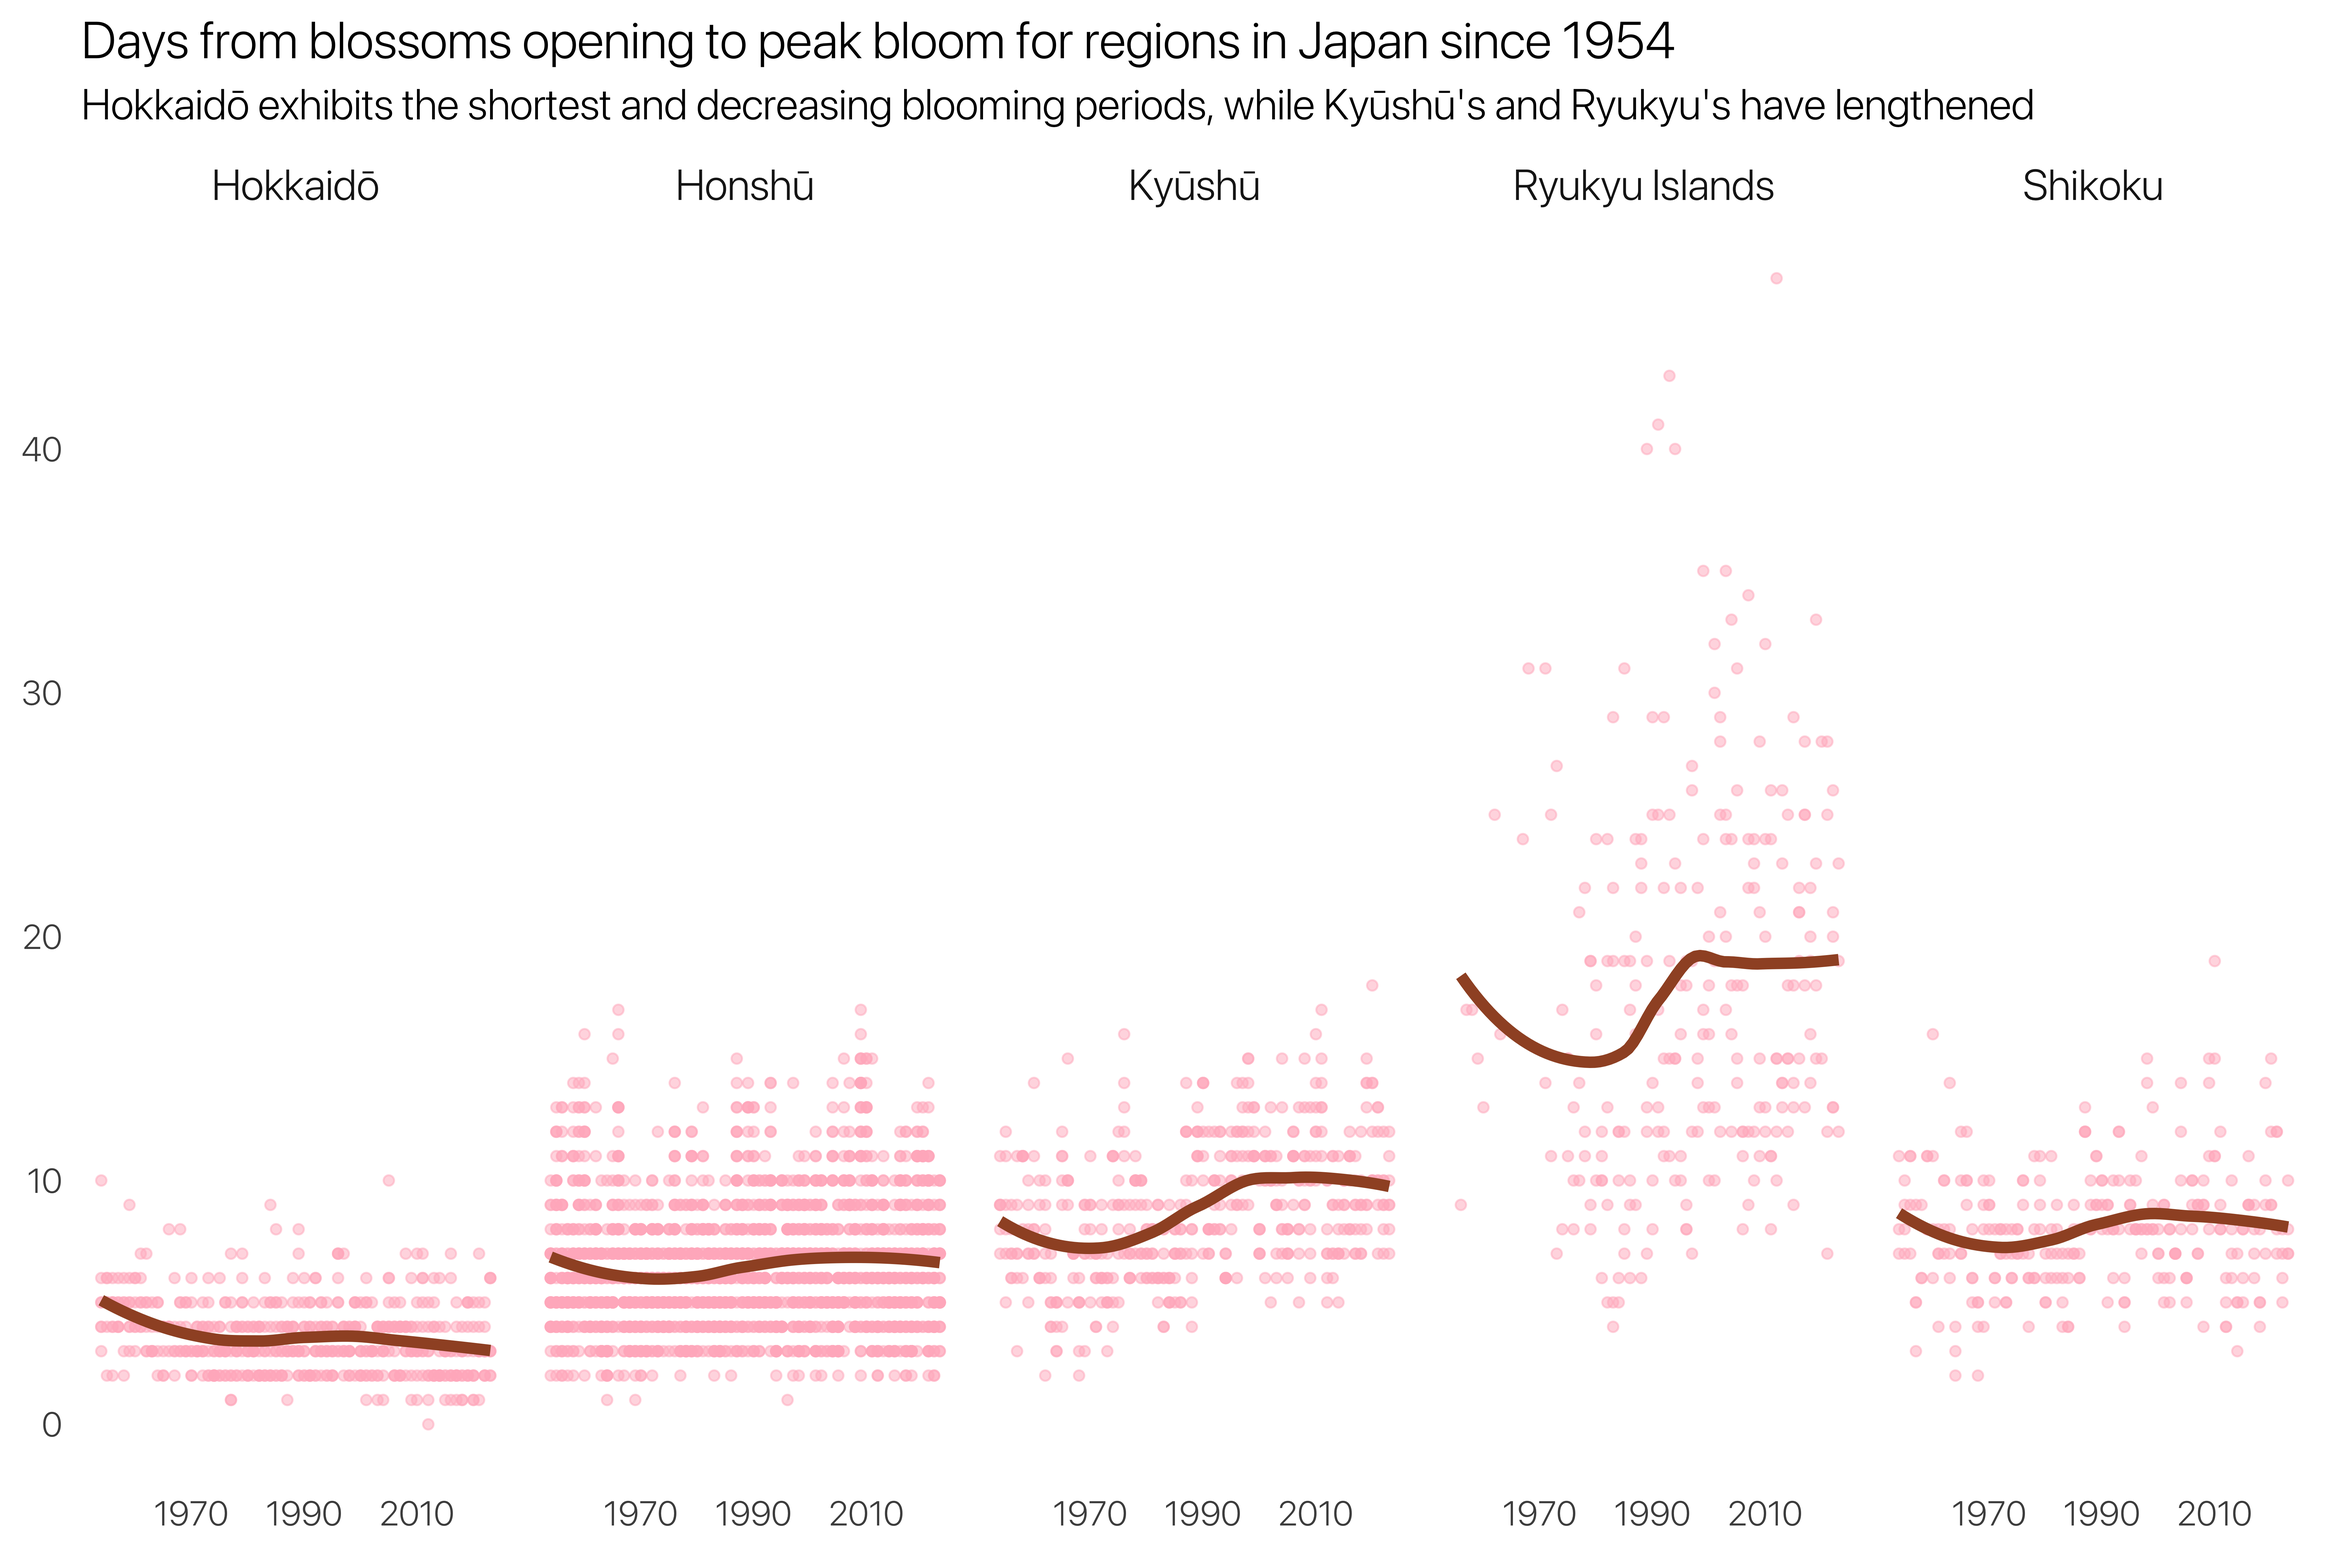
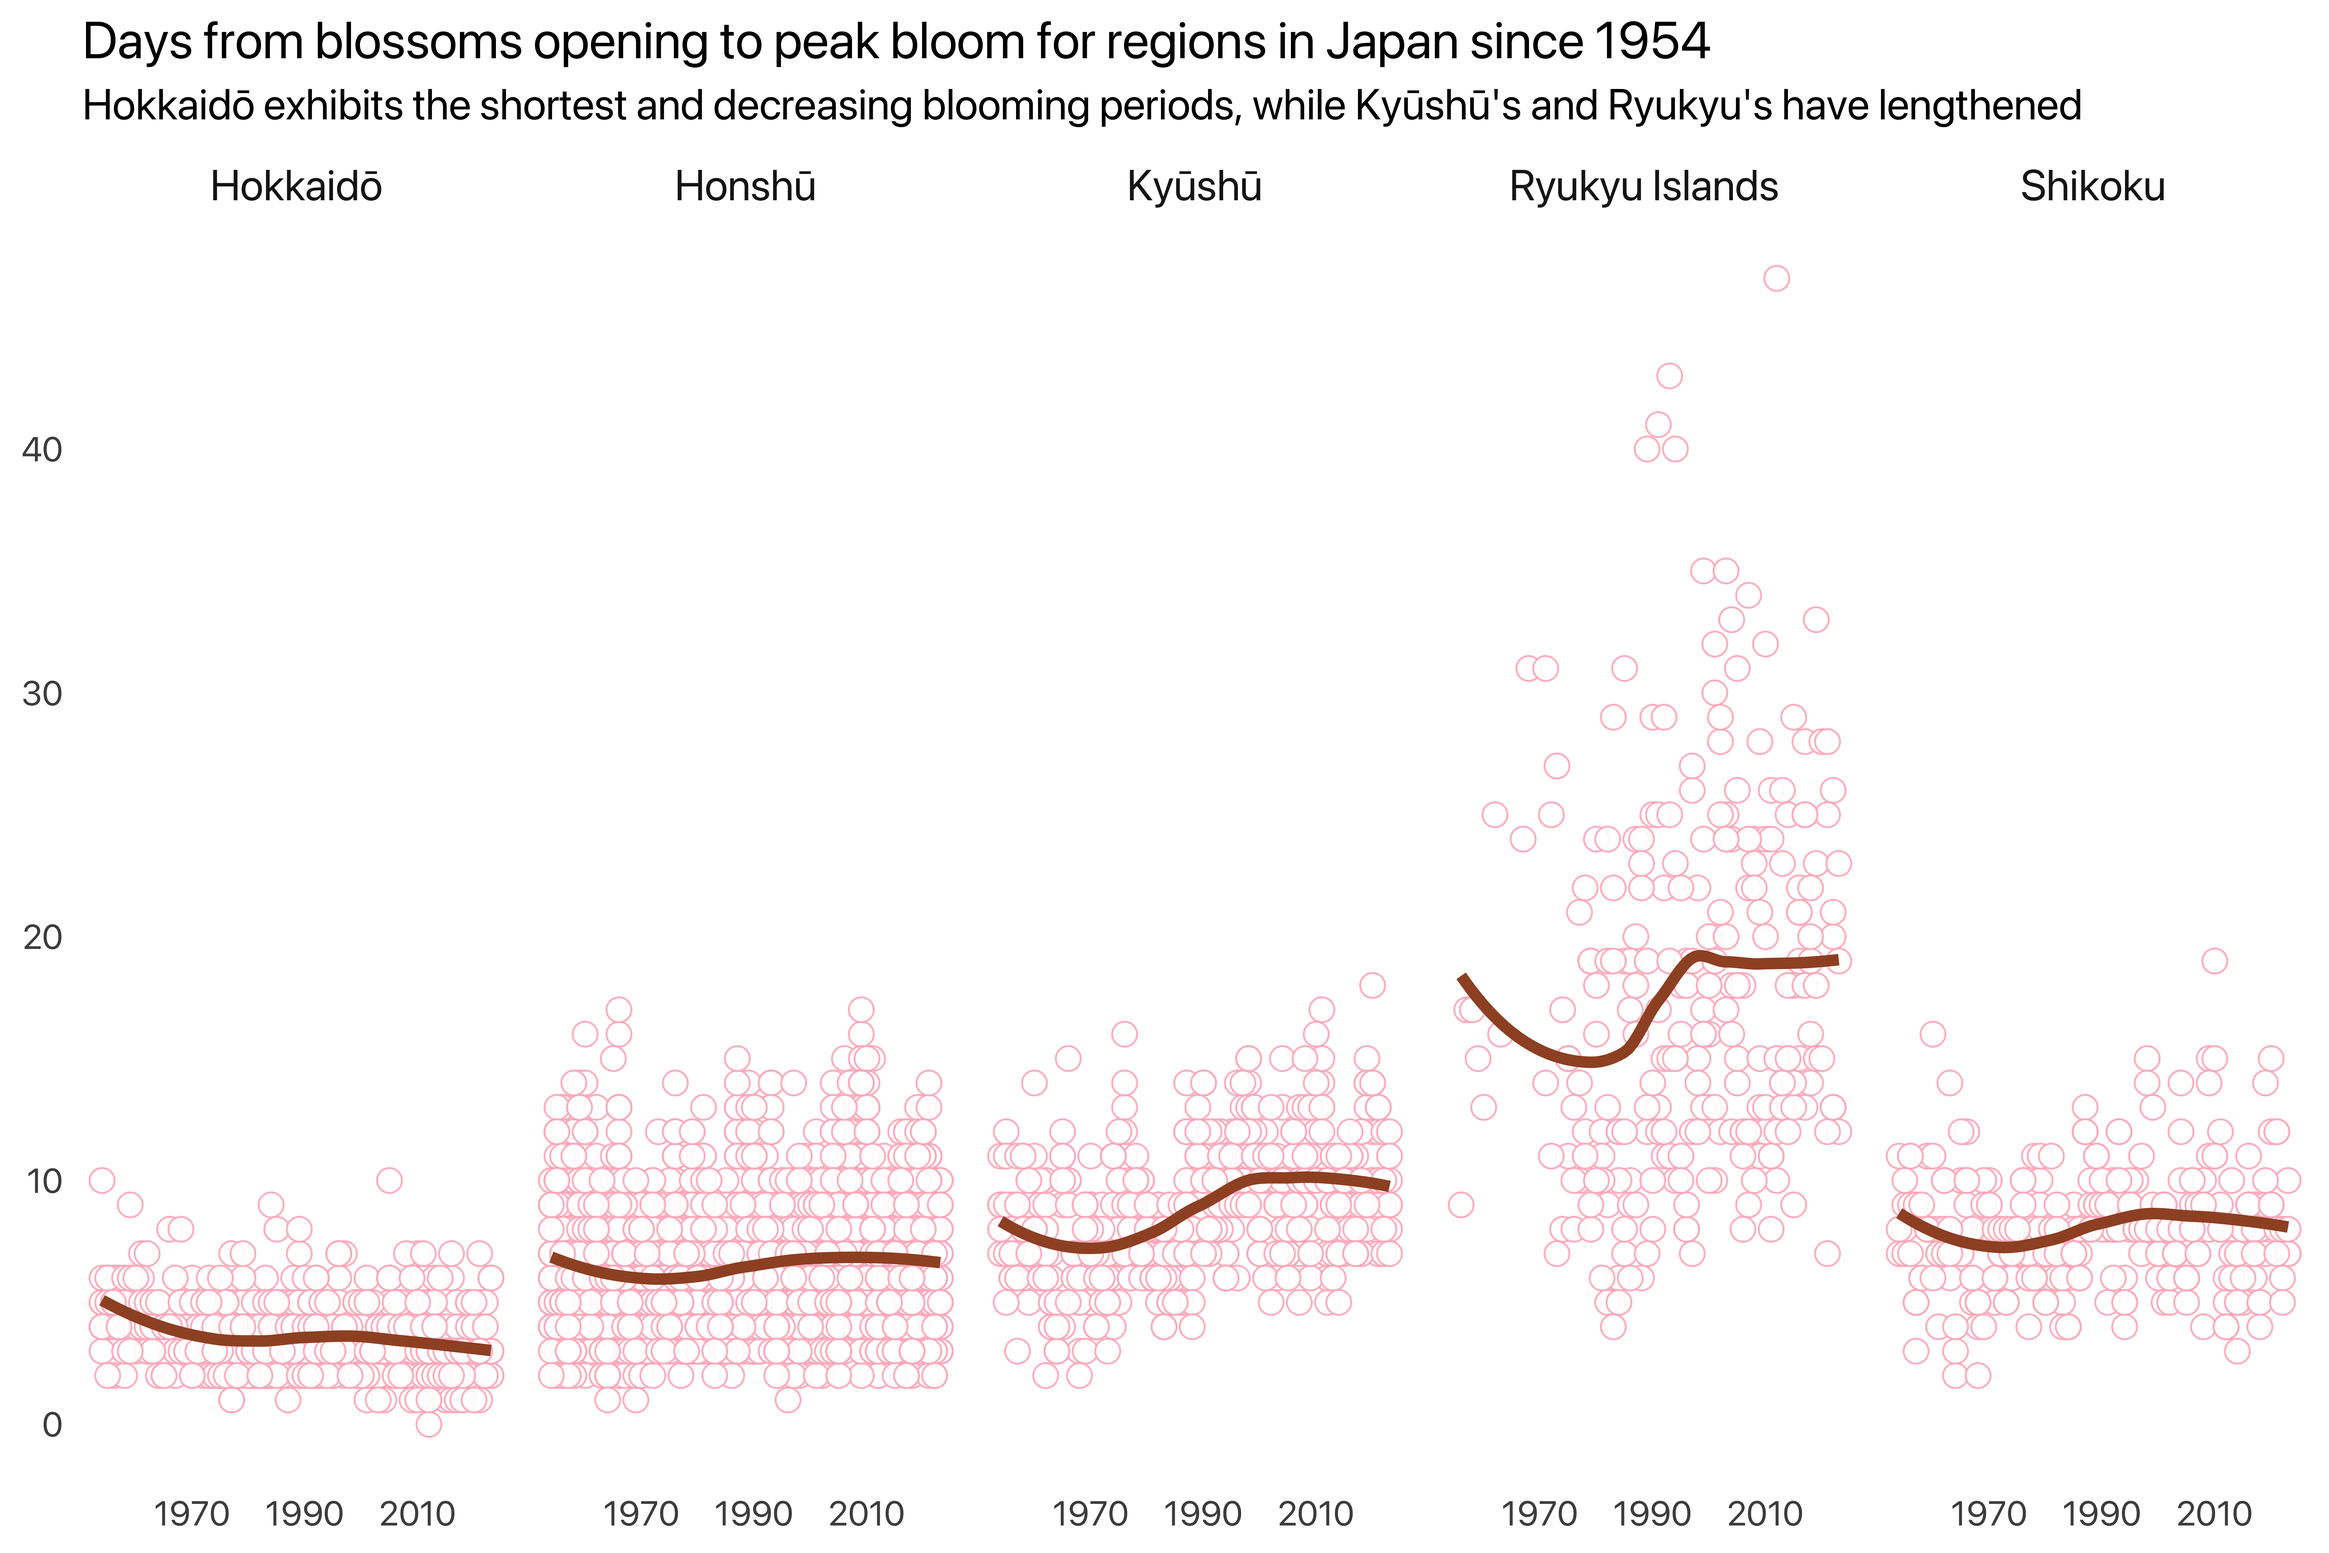
Updated point shapes to circles in posts/sakura-visualizations

diff --git a/docs/posts/sakura-visualizations/index.html b/docs/posts/sakura-visualizations/index.html
@@ -392,7 +392,7 @@ cookieconsent.run({
 <div class="tab-content">
 <div id="tabset-5-1" class="tab-pane active" role="tabpanel" aria-labelledby="tabset-5-1-tab">
 <div class="cell">
-<div class="sourceCode cell-code" id="cb9"><pre class="sourceCode r code-with-copy"><code class="sourceCode r"><span id="cb9-1"><a href="#cb9-1" aria-hidden="true" tabindex="-1"></a><span class="fu">theme_set</span>(<span class="fu">theme_classic</span>(<span class="at">base_size =</span> <span class="dv">16</span>, <span class="at">base_family =</span> <span class="st">"SF Pro Light"</span>)) </span>
+<div class="sourceCode cell-code" id="cb9"><pre class="sourceCode r code-with-copy"><code class="sourceCode r"><span id="cb9-1"><a href="#cb9-1" aria-hidden="true" tabindex="-1"></a><span class="fu">theme_set</span>(<span class="fu">theme_classic</span>(<span class="at">base_size =</span> <span class="dv">16</span>, <span class="at">base_family =</span> <span class="st">"SF Pro"</span>)) </span>
 <span id="cb9-2"><a href="#cb9-2" aria-hidden="true" tabindex="-1"></a></span>
 <span id="cb9-3"><a href="#cb9-3" aria-hidden="true" tabindex="-1"></a><span class="fu">theme_update</span>(</span>
 <span id="cb9-4"><a href="#cb9-4" aria-hidden="true" tabindex="-1"></a>  <span class="at">panel.grid.minor =</span> <span class="fu">element_blank</span>(),</span>
@@ -410,6 +410,7 @@ cookieconsent.run({
 </div>
 </div>
 <div id="tabset-5-2" class="tab-pane" role="tabpanel" aria-labelledby="tabset-5-2-tab">
+<p>Since <code>plotnine</code> is built on <code>matplotlib</code>, setting the font family can be done more flexibly and consistently using the latter’s font manager.</p>
 <div class="cell">
 <div class="sourceCode cell-code" id="cb10"><pre class="sourceCode python code-with-copy"><code class="sourceCode python"><span id="cb10-1"><a href="#cb10-1" aria-hidden="true" tabindex="-1"></a><span class="im">import</span> matplotlib.pyplot <span class="im">as</span> plt</span>
 <span id="cb10-2"><a href="#cb10-2" aria-hidden="true" tabindex="-1"></a><span class="im">import</span> matplotlib.font_manager <span class="im">as</span> fm</span>
@@ -417,7 +418,7 @@ cookieconsent.run({
 <span id="cb10-4"><a href="#cb10-4" aria-hidden="true" tabindex="-1"></a>fpath <span class="op">=</span> <span class="st">"/Library/Fonts/SF-Pro.ttf"</span></span>
 <span id="cb10-5"><a href="#cb10-5" aria-hidden="true" tabindex="-1"></a></span>
 <span id="cb10-6"><a href="#cb10-6" aria-hidden="true" tabindex="-1"></a>fm.fontManager.addfont(fpath)</span>
-<span id="cb10-7"><a href="#cb10-7" aria-hidden="true" tabindex="-1"></a>prop <span class="op">=</span> fm.FontProperties(fname<span class="op">=</span>fpath)</span>
+<span id="cb10-7"><a href="#cb10-7" aria-hidden="true" tabindex="-1"></a>prop <span class="op">=</span> fm.FontProperties(fname <span class="op">=</span> fpath)</span>
 <span id="cb10-8"><a href="#cb10-8" aria-hidden="true" tabindex="-1"></a>font_name <span class="op">=</span> prop.get_name()</span>
 <span id="cb10-9"><a href="#cb10-9" aria-hidden="true" tabindex="-1"></a>plt.rcParams[<span class="st">"font.family"</span>] <span class="op">=</span> font_name</span>
 <span id="cb10-10"><a href="#cb10-10" aria-hidden="true" tabindex="-1"></a></span>
@@ -451,7 +452,7 @@ cookieconsent.run({
 <div class="cell">
 <div class="sourceCode cell-code" id="cb11"><pre class="sourceCode r code-with-copy"><code class="sourceCode r"><span id="cb11-1"><a href="#cb11-1" aria-hidden="true" tabindex="-1"></a>sakura_data <span class="sc">|&gt;</span> </span>
 <span id="cb11-2"><a href="#cb11-2" aria-hidden="true" tabindex="-1"></a>  <span class="fu">ggplot</span>(<span class="fu">aes</span>(<span class="at">x =</span> year, <span class="at">y =</span> days_to_full_bloom)) <span class="sc">+</span></span>
-<span id="cb11-3"><a href="#cb11-3" aria-hidden="true" tabindex="-1"></a>  <span class="fu">geom_point</span>(<span class="at">color =</span> colors[<span class="dv">1</span>], <span class="at">alpha =</span> <span class="fl">0.5</span>, <span class="at">size =</span> <span class="dv">2</span>) <span class="sc">+</span></span>
+<span id="cb11-3"><a href="#cb11-3" aria-hidden="true" tabindex="-1"></a>  <span class="fu">geom_point</span>(<span class="at">color =</span> colors[<span class="dv">1</span>], <span class="at">alpha =</span> <span class="fl">0.9</span>, <span class="at">size =</span> <span class="dv">4</span>, <span class="at">shape =</span> <span class="dv">21</span>, <span class="at">fill =</span> <span class="st">"white"</span>) <span class="sc">+</span></span>
 <span id="cb11-4"><a href="#cb11-4" aria-hidden="true" tabindex="-1"></a>  <span class="fu">geom_smooth</span>(<span class="at">method =</span> <span class="st">"loess"</span>, <span class="at">se =</span> <span class="cn">FALSE</span>,</span>
 <span id="cb11-5"><a href="#cb11-5" aria-hidden="true" tabindex="-1"></a>              <span class="at">color =</span> colors[<span class="dv">2</span>], <span class="at">linewidth =</span> <span class="dv">2</span>) <span class="sc">+</span></span>
 <span id="cb11-6"><a href="#cb11-6" aria-hidden="true" tabindex="-1"></a>  <span class="fu">facet_wrap</span>(<span class="sc">~</span>region, <span class="at">nrow =</span> <span class="dv">1</span>) <span class="sc">+</span> </span>
@@ -470,11 +471,11 @@ cookieconsent.run({
 </div>
 </div>
 <div id="tabset-6-2" class="tab-pane" role="tabpanel" aria-labelledby="tabset-6-2-tab">
-<p>Note that <code>linewidth</code> is still <code>size</code> in plotnine</p>
+<p>Note that <code>linewidth</code> is still <code>size</code> in plotnine.</p>
 <div class="cell">
 <div class="sourceCode cell-code" id="cb12"><pre class="sourceCode python code-with-copy"><code class="sourceCode python"><span id="cb12-1"><a href="#cb12-1" aria-hidden="true" tabindex="-1"></a>(ggplot(sakura_data, </span>
 <span id="cb12-2"><a href="#cb12-2" aria-hidden="true" tabindex="-1"></a>         aes(x <span class="op">=</span> <span class="st">"year"</span>, y <span class="op">=</span> <span class="st">"days_to_full_bloom"</span>))</span>
-<span id="cb12-3"><a href="#cb12-3" aria-hidden="true" tabindex="-1"></a>  <span class="op">+</span> geom_point(color <span class="op">=</span> colors[<span class="dv">0</span>], alpha <span class="op">=</span> <span class="fl">0.5</span>, size <span class="op">=</span> <span class="dv">2</span>)</span>
+<span id="cb12-3"><a href="#cb12-3" aria-hidden="true" tabindex="-1"></a>  <span class="op">+</span> geom_point(color <span class="op">=</span> colors[<span class="dv">0</span>], alpha <span class="op">=</span> <span class="fl">0.9</span>, size <span class="op">=</span> <span class="dv">4</span>, shape <span class="op">=</span> <span class="st">"o"</span>, fill <span class="op">=</span> <span class="st">"white"</span>)</span>
 <span id="cb12-4"><a href="#cb12-4" aria-hidden="true" tabindex="-1"></a>  <span class="op">+</span> geom_smooth(method <span class="op">=</span> <span class="st">"loess"</span>, se <span class="op">=</span> <span class="va">False</span>,</span>
 <span id="cb12-5"><a href="#cb12-5" aria-hidden="true" tabindex="-1"></a>                color <span class="op">=</span> colors[<span class="dv">1</span>], size <span class="op">=</span> <span class="dv">2</span>)</span>
 <span id="cb12-6"><a href="#cb12-6" aria-hidden="true" tabindex="-1"></a>  <span class="op">+</span> facet_wrap(<span class="st">"~region"</span>, nrow <span class="op">=</span> <span class="dv">1</span>)</span>
@@ -509,7 +510,7 @@ cookieconsent.run({
 <div class="cell">
 <div class="sourceCode cell-code" id="cb14"><pre class="sourceCode r code-with-copy"><code class="sourceCode r"><span id="cb14-1"><a href="#cb14-1" aria-hidden="true" tabindex="-1"></a>sakura_data <span class="sc">|&gt;</span></span>
 <span id="cb14-2"><a href="#cb14-2" aria-hidden="true" tabindex="-1"></a>  <span class="fu">ggplot</span>(<span class="fu">aes</span>(<span class="at">x =</span> year, <span class="at">y =</span> days_from_first_to_full_bloom)) <span class="sc">+</span></span>
-<span id="cb14-3"><a href="#cb14-3" aria-hidden="true" tabindex="-1"></a>  <span class="fu">geom_point</span>(<span class="at">color =</span> colors[<span class="dv">1</span>], <span class="at">alpha =</span> <span class="fl">0.5</span>) <span class="sc">+</span></span>
+<span id="cb14-3"><a href="#cb14-3" aria-hidden="true" tabindex="-1"></a>  <span class="fu">geom_point</span>(<span class="at">color =</span> colors[<span class="dv">1</span>], <span class="at">alpha =</span> <span class="fl">0.9</span>, <span class="at">size =</span> <span class="dv">4</span>, <span class="at">shape =</span> <span class="dv">21</span>, <span class="at">fill =</span> <span class="st">"white"</span>) <span class="sc">+</span></span>
 <span id="cb14-4"><a href="#cb14-4" aria-hidden="true" tabindex="-1"></a>  <span class="fu">geom_smooth</span>(<span class="at">method =</span> <span class="st">"loess"</span>, <span class="at">se =</span> <span class="cn">FALSE</span>,</span>
 <span id="cb14-5"><a href="#cb14-5" aria-hidden="true" tabindex="-1"></a>              <span class="at">color =</span> colors[<span class="dv">2</span>], <span class="at">linewidth =</span> <span class="dv">2</span>) <span class="sc">+</span></span>
 <span id="cb14-6"><a href="#cb14-6" aria-hidden="true" tabindex="-1"></a>  <span class="fu">facet_wrap</span>(<span class="sc">~</span>region, <span class="at">nrow =</span> <span class="dv">1</span>) <span class="sc">+</span></span>
@@ -530,7 +531,7 @@ cookieconsent.run({
 <div class="cell">
 <div class="sourceCode cell-code" id="cb15"><pre class="sourceCode python code-with-copy"><code class="sourceCode python"><span id="cb15-1"><a href="#cb15-1" aria-hidden="true" tabindex="-1"></a>(ggplot(sakura_data, </span>
 <span id="cb15-2"><a href="#cb15-2" aria-hidden="true" tabindex="-1"></a>        aes(x <span class="op">=</span> <span class="st">"year"</span>, y <span class="op">=</span> <span class="st">"days_from_first_to_full_bloom"</span>))</span>
-<span id="cb15-3"><a href="#cb15-3" aria-hidden="true" tabindex="-1"></a>  <span class="op">+</span> geom_point(color <span class="op">=</span> colors[<span class="dv">0</span>], alpha <span class="op">=</span> <span class="fl">0.5</span>)</span>
+<span id="cb15-3"><a href="#cb15-3" aria-hidden="true" tabindex="-1"></a>  <span class="op">+</span> geom_point(color <span class="op">=</span> colors[<span class="dv">0</span>], alpha <span class="op">=</span> <span class="fl">0.9</span>, size <span class="op">=</span> <span class="dv">4</span>, shape <span class="op">=</span> <span class="st">"o"</span>, fill <span class="op">=</span> <span class="st">"white"</span>)</span>
 <span id="cb15-4"><a href="#cb15-4" aria-hidden="true" tabindex="-1"></a>  <span class="op">+</span> geom_smooth(method <span class="op">=</span> <span class="st">"loess"</span>, se <span class="op">=</span> <span class="va">False</span>, </span>
 <span id="cb15-5"><a href="#cb15-5" aria-hidden="true" tabindex="-1"></a>                color <span class="op">=</span> colors[<span class="dv">1</span>], size <span class="op">=</span> <span class="dv">2</span>)</span>
 <span id="cb15-6"><a href="#cb15-6" aria-hidden="true" tabindex="-1"></a>  <span class="op">+</span> facet_wrap(<span class="st">"~region"</span>, nrow <span class="op">=</span> <span class="dv">1</span>)</span>
@@ -1069,7 +1070,7 @@ window.document.addEventListener("DOMContentLoaded", function (event) {
     </div>
   </div>
 </footer>
-<script>var lightboxQuarto = GLightbox({"selector":".lightbox","openEffect":"zoom","descPosition":"bottom","closeEffect":"zoom","loop":false});
+<script>var lightboxQuarto = GLightbox({"closeEffect":"zoom","loop":false,"descPosition":"bottom","openEffect":"zoom","selector":".lightbox"});
 (function() {
   let previousOnload = window.onload;
   window.onload = () => {

diff --git a/docs/index.html b/docs/index.html
@@ -217,7 +217,7 @@ window.Quarto = {
 
 <div class="quarto-listing quarto-listing-container-grid" id="listing-listing">
 <div class="list grid quarto-listing-cols-3">
-<div class="g-col-1" data-index="0" data-categories="R,Python,Visualization" data-listing-date-sort="1716760800000" data-listing-file-modified-sort="1720159478692" data-listing-date-modified-sort="NaN" data-listing-reading-time-sort="11" data-listing-word-count-sort="2092">
+<div class="g-col-1" data-index="0" data-categories="R,Python,Visualization" data-listing-date-sort="1716760800000" data-listing-file-modified-sort="1720161071385" data-listing-date-modified-sort="NaN" data-listing-reading-time-sort="11" data-listing-word-count-sort="2145">
 <a href="./posts/sakura-visualizations/index.html" class="quarto-grid-link">
 <div class="quarto-grid-item card h-100 card-left">
 <p class="card-img-top">
